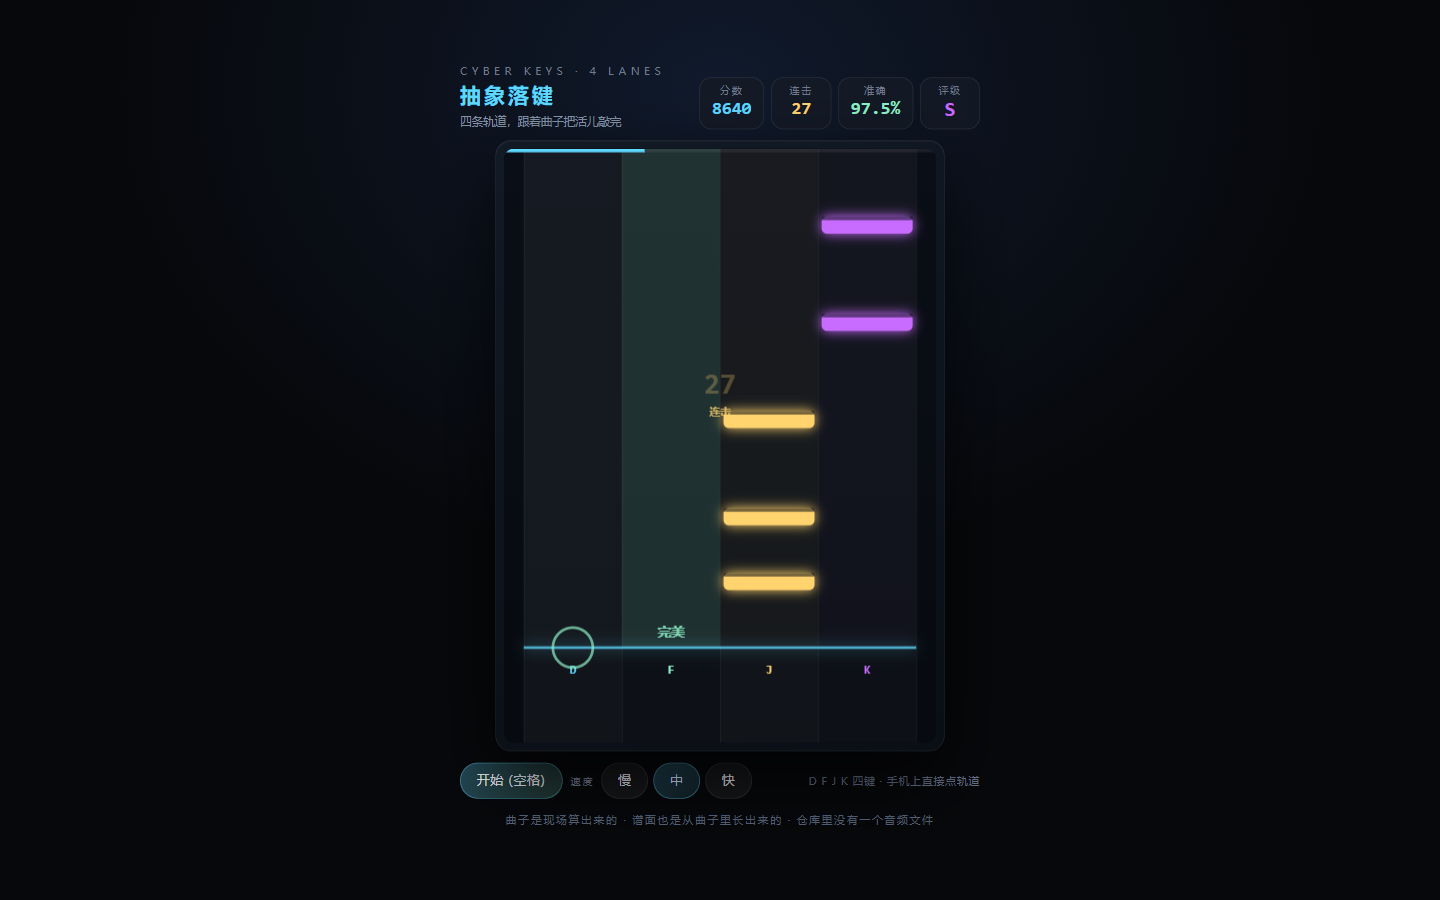
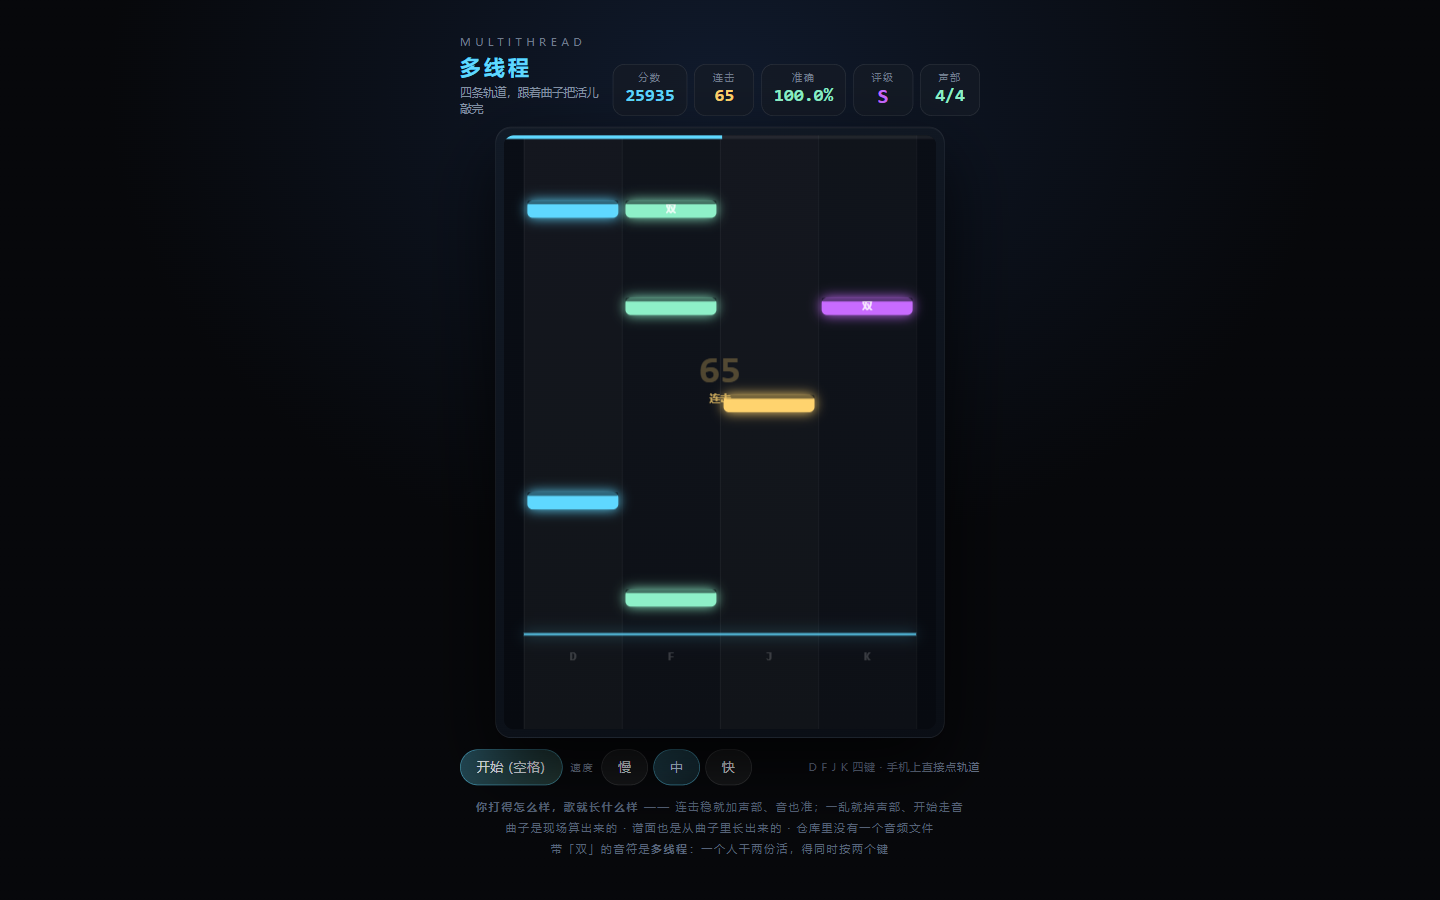
feat(vol.8): 第一件「抽象落键」改成「多线程」（VOL.8 重做做到一半）
VOL.8 按 VOL.6/7 的同一套标准重做，这一批先出第一件。剩下三件（太鼓/点音/节奏跑）
还是旧版，货架名和 README 都标了「重做中」，不留含糊。

两条新规则：

1. 手感和音乐联动（这一卷的招牌）。既然曲子是运行时用 Web Audio 当场算出来的，
   那它就能跟着你变。曲子分四个声部（鼓 / 贝斯 / 和声 / 主旋律），开场只给三个；
   每打出一个完美往上顶 +0.07，漏一拍往下掉 -0.11 —— **主旋律得靠自己的手打进去**。
   手一乱不光掉声部（4→3→2→1，鼓和贝斯永远留着），两个锯齿波还会按手感散开走音。
   这是「谱子写死」的音游做不到的事，正好只有这套引擎能做。
   HUD 加了一格「声部 n/4」，实时告诉你现在开着几个声部。

2. 「多线程」：谱面里同一刻掉下来两颗音符，得同时按两个键（只按一个，另一颗判错过）。
   曲子过半之后开始出现，越往后越多，每首约 21 处。渲染时带一个「双」标记。

其余不变：四轨 D/F/J/K、完美±45ms / 良好±90ms / 凑合±140ms、连击加成、S/A/B/C/D 评级。

顺手改掉：曲名标题 MULTITHREADED KEYS 太长会在踢脚线上折成两行，改短成 MULTITHREAD。

验证（python -m http.server + Playwright）：
- 生成：三档难度的谱面各 21 处成对音符，**同一刻的两颗从未落在同一条轨道上**（dupLane=0）
- 判定：同时按两个键 -> 两颗都判「良好」；只按一个 -> 另一颗判「错过」（直接读 note.result）
- 手感：perf 0.1/0.3/0.6/0.9 分别映射到 1/2/3/4 声部，门控正确（kick 永远在；pad 要 ≥3 声部；
  lead 只有满编才进）；连续 6 次完美把 perf 从 0.5 抬到 0.86，10 次漏拍压到 0 并掉到 1 声部
- 端到端：自动打完一整首（146 个音符全完美），用时正确、声部一路涨到 4、正常结算
- 全站 41 页 × 两种尺寸 = 82 个组合：零 JS 报错（唯一一条 console error 是本地服务器的
  favicon 404）、零横向溢出
- 窄屏：5 个数字块会把标题挤成竖排，加了媒体查询让标题自己占一行

diff --git a/cyber-keys/index.html b/cyber-keys/index.html
@@ -3,7 +3,7 @@
 <head>
 <meta charset="utf-8">
 <meta name="viewport" content="width=device-width, initial-scale=1, maximum-scale=1, user-scalable=no">
-<title>抽象落键 · CYBER KEYS</title>
+<title>多线程 · MULTITHREADED KEYS</title>
 <style>
   *{box-sizing:border-box}
   html,body{min-height:100%;margin:0;background:#07080b}
@@ -28,6 +28,13 @@
   .stat.cb .v{color:#ffd36e}
   .stat.acc .v{color:#8ef0c8}
   .stat.gr .v{color:#c86bff;font-size:20px}
+  .stat.vx .v{color:#8ef0c8}
+  /* 五个数字块在窄屏会把标题挤成竖排，让标题自己占一行 */
+  @media (max-width:560px){
+    header{flex-wrap:wrap;gap:9px}
+    .brand{flex:1 1 100%}
+    .stats{flex:1 1 100%;justify-content:space-between}
+  }
 
   .wrap{position:relative;border-radius:16px;padding:8px;
     background:linear-gradient(160deg,#121a26,#0a0e15);
@@ -75,8 +82,8 @@
 
 <header>
   <div class="brand">
-    <div class="t">CYBER KEYS · 4 LANES</div>
-    <h1>抽象落键</h1>
+    <div class="t">MULTITHREAD</div>
+    <h1>多线程</h1>
     <div class="s">四条轨道，跟着曲子把活儿敲完</div>
   </div>
   <div class="stats">
@@ -84,6 +91,7 @@
     <div class="stat cb"><div class="k">连击</div><div class="v" id="combo">0</div></div>
     <div class="stat acc"><div class="k">准确</div><div class="v" id="acc">100%</div></div>
     <div class="stat gr"><div class="k">评级</div><div class="v" id="grade">—</div></div>
+    <div class="stat vx"><div class="k">声部</div><div class="v" id="voices">4</div></div>
   </div>
 </header>
 
@@ -99,7 +107,9 @@
   <span class="hint">D F J K 四键 · 手机上直接点轨道</span>
 </div>
 
-<footer>曲子是现场算出来的 · 谱面也是从曲子里长出来的 · 仓库里没有一个音频文件</footer>
+<footer><b>你打得怎么样，歌就长什么样</b> —— 连击稳就加声部、音也准；一乱就掉声部、开始走音<br>
+曲子是现场算出来的 · 谱面也是从曲子里长出来的 · 仓库里没有一个音频文件<br>
+带「双」的音符是<b>多线程</b>：一个人干两份活，得同时按两个键</footer>
 
 <div class="over show" id="over">
   <div class="box">
@@ -203,14 +213,28 @@ const M = {
   start(song, lead){ this.init(); this.resume(); this.song = song; this.i = 0; this.on = true;
     this.t0 = this.ctx.currentTime + (lead == null ? 3.2 : lead); },
   stop(){ this.on = false; },
+  /* 你打得怎么样，歌就长什么样：手顺就加声部、音也准；手一乱就掉声部、开始走音。
+     这是「音乐是现场算出来的」才做得到的事 —— 谱子固定的游戏没法这么干。 */
+  perf: 0.58,       // 0 一塌糊涂 ～ 1 炉火纯青（按最近的判定平滑变化）
+  voices: 3,        // 现在开着几个声部：开场三个，主旋律得靠自己打进去
+  hype(d){ this.perf = Math.max(0, Math.min(1, this.perf + d)); },
+  retune(){ this.voices = this.perf < 0.20 ? 1 : this.perf < 0.40 ? 2 : this.perf < 0.68 ? 3 : 4; },
+  allow(kind){
+    const v = this.voices;
+    if(v <= 1) return kind === 'kick' || kind === 'bass';
+    if(v <= 2) return kind !== 'pad' && kind !== 'lead';
+    if(v <= 3) return kind !== 'lead';
+    return true;
+  },
   tick(){
     if(!this.on || !this.ctx || !this.song) return;
+    this.retune();
     const ahead = this.ctx.currentTime + 0.18;
     while(this.i < this.song.events.length){
       const ev = this.song.events[this.i];
       const at = this.t0 + ev.t;
       if(at > ahead) break;
-      if(at > this.ctx.currentTime - 0.06) this.play(ev, at);
+      if(at > this.ctx.currentTime - 0.06 && this.allow(ev.kind)) this.play(ev, at);
       this.i++;
     }
   },
@@ -256,7 +280,7 @@ const M = {
     } else if(K === 'lead'){
       const o=c.createOscillator(), o2=c.createOscillator(), lp=c.createBiquadFilter(), g=c.createGain();
       o.type='square'; o2.type='triangle';
-      o.frequency.value = midiHz(ev.midi); o2.frequency.value = midiHz(ev.midi)*1.005;
+      o.frequency.value = midiHz(ev.midi); o2.frequency.value = midiHz(ev.midi)*(1.004 + (1-this.perf)*0.011);
       lp.type='lowpass'; lp.frequency.setValueAtTime(4200, at);
       lp.frequency.exponentialRampToValueAtTime(1400, at+0.24);
       g.gain.setValueAtTime(0.0001, at);
@@ -268,7 +292,8 @@ const M = {
       const d = ev.dur || 1.6;
       for(const det of [-6, 6]){
         const o=c.createOscillator(), lp=c.createBiquadFilter(), g=c.createGain();
-        o.type='sawtooth'; o.frequency.value = midiHz(ev.midi)*Math.pow(2, det/1200);
+        const off = det * (1 + (1-this.perf)*2.2);      // 手一乱，两个锯齿就散开走音
+        o.type='sawtooth'; o.frequency.value = midiHz(ev.midi)*Math.pow(2, off/1200);
         lp.type='lowpass'; lp.frequency.value=1000;
         g.gain.setValueAtTime(0.0001, at);
         g.gain.linearRampToValueAtTime(0.028, at+0.5);
@@ -317,6 +342,13 @@ function buildChart(song, diffKey){
     const prev = out[out.length-1];
     if(prev && prev.lane === lane && ev.t - prev.t < 0.09) lane = (lane + 1 + ((rnd()*2)|0)) % LANES;
     out.push({ t: ev.t, lane, kind: ev.kind, judged:false, result:null });
+    /* 多线程：一个人同时干两份活。曲子过半之后，同一刻会偶尔掉下来两颗，
+       你得同时按两个键。越往后越多。 */
+    const prog = s / Math.max(1, last);
+    if(prog > 0.30 && ev.kind !== 'hat' && rnd() < 0.09 + prog*0.16){
+      const partner = (lane + 1 + ((rnd()*2)|0)) % LANES;
+      out.push({ t: ev.t, lane: partner, kind: ev.kind, multi:true, judged:false, result:null });
+    }
   }
   return out;
 }
@@ -368,6 +400,7 @@ function reset(){
   score = 0; combo = 0; maxCombo = 0; hits = 0;
   judgeCount = {perfect:0,good:0,ok:0,miss:0};
   fx = []; laneFlash = [0,0,0,0]; countBeep = -9;
+  M.perf = 0.58; M.retune();         // 开场三个声部，主旋律得靠自己打进去
   const s = currentSong();
   totalNotes = chart.length;
   M.stop();
@@ -387,6 +420,9 @@ function updateHUD(){
   const acc = (judgeCount.perfect*300 + judgeCount.good*200 + judgeCount.ok*100) / (denom*300);
   $('acc').textContent = totalNotes ? (acc*100).toFixed(1)+'%' : '100%';
   $('grade').textContent = totalNotes ? gradeOf(acc) : '—';
+  const v = M.voices || 4;
+  $('voices').textContent = v + '/4';
+  $('voices').style.color = v >= 4 ? '#8ef0c8' : v === 3 ? '#8fd9ff' : v === 2 ? '#ffd36e' : '#ff7a6b';
 }
 function gradeOf(acc){
   if(acc >= 0.96) return 'S';
@@ -401,12 +437,15 @@ function judgeNote(n, tier){
   n.judged = true; n.result = tier;
   const s = TIER[tier], D = DIFFS[diffKey];
   judgeCount[tier]++;
-  if(tier === 'miss'){ combo = 0; }
+  if(tier === 'miss'){ combo = 0; M.hype(-0.11); }
   else {
     hits++; combo++; if(combo > maxCombo) maxCombo = combo;
     const comboBonus = 1 + Math.min(1, combo/100);
     score += Math.round(s.s * D.mult * comboBonus);
+    // 手顺，歌就越弹越满；漏一拍要三次完美才补得回来
+    M.hype(tier === 'perfect' ? 0.07 : tier === 'good' ? 0.03 : 0.01);
   }
+  M.retune();
   updateHUD();
 }
 function tryHit(lane){
@@ -541,6 +580,13 @@ function draw(st){
     ctx.restore();
     ctx.fillStyle = 'rgba(8,12,18,.55)';
     rr(x+4, y-geo.noteH/2, w-8, 4, 3); ctx.fill();
+    // 多线程的那些音符带个「双」：这一下得同时按两个键
+    if(n.multi){
+      ctx.fillStyle = 'rgba(255,255,255,.85)';
+      ctx.font = '800 11px "PingFang SC","Microsoft YaHei",sans-serif';
+      ctx.textAlign = 'center'; ctx.textBaseline = 'middle';
+      ctx.fillText('双', x + w/2, y + 0.5);
+    }
   }
 
   // 判定键位提示
@@ -700,7 +746,27 @@ function paintBest(){
 /* 供自动化测试 / 演示用 */
 window.__keys = {
   get chart(){ return chart; }, get song(){ return song; }, get state(){ return { playing, paused, finished, score, combo, maxCombo, judgeCount, totalNotes }; },
-  setAuto(v){ autoPlay = !!v; }, hit: tryHit, play, finish
+  setAuto(v){ autoPlay = !!v; }, hit: tryHit, play, finish,
+  /* 音乐跟手感联动的那部分，方便自动化验 */
+  M,
+  get perf(){ return M.perf; },
+  get voices(){ return M.voices; },
+  get voicesShown(){ return $('voices').textContent; },
+  setPerf(v){ M.perf = v; M.retune(); updateHUD(); },
+  judgeForTest(tier){ judgeNote({ lane:0, judged:false }, tier); },
+  allowForTest(kind){ return M.allow(kind); },
+  chordStats(){
+    const byT = new Map();
+    for(const n of chart) byT.set(n.t, (byT.get(n.t)||0)+1);
+    let multi = 0, dupLane = 0;
+    for(const n of chart) if(n.multi) multi++;
+    for(const [t, k] of byT){
+      if(k < 2) continue;
+      const lanes = chart.filter(n => n.t === t).map(n => n.lane);
+      if(new Set(lanes).size !== lanes.length) dupLane++;
+    }
+    return { multi, chordSlots: [...byT.values()].filter(k=>k>1).length, dupLane };
+  }
 };
 </script>
 </body>

diff --git a/index.html b/index.html
@@ -779,15 +779,17 @@
     </a>
   </div>
 
-  <div class="shelf"><span class="label"><b>VOL.8</b> · 音游四件</span><span class="rule"></span></div>
+  <div class="shelf"><span class="label"><b>VOL.8</b> · 音游四件（重做中）</span><span class="rule"></span></div>
   <div class="grid">
     <a class="card" href="cyber-keys/">
       <span class="go">进入 →</span>
       <div class="thumb"><div class="tmp-keys"><i></i><i></i><i></i><i></i></div></div>
-      <h2>抽象落键</h2>
-      <p>四条轨道，音符从上往下掉，落到判定线上敲掉它。判定分<b>完美 / 良好 / 凑合 / 错过</b>，
-         有连击、准确率和 S/A/B/C/D 评级。四首曲子 × 三档难度，下落速度还能自己调。</p>
-      <div class="tags"><span class="tag">可玩</span><span class="tag">四轨</span><span class="tag">四首曲子</span></div>
+      <h2>多线程</h2>
+      <p>四条轨道，音符从上往下掉，落到判定线上敲掉它。<b>而曲子是现场算出来的</b>——
+         所以你打得怎么样，歌就长什么样：连击稳就加声部、音也准，一乱就掉声部、开始走音，
+         主旋律得靠自己的手打进去。另外谱面里带「双」的音符是「一人干两份活」，
+         得同时按两个键。</p>
+      <div class="tags"><span class="tag">可玩</span><span class="tag">手感决定配器</span><span class="tag">同时对两键</span></div>
     </a>
     <a class="card" href="cyber-taiko/">
       <span class="go">进入 →</span>

diff --git a/README.md b/README.md
@@ -382,7 +382,10 @@
 
 ---
 
-# VOL.8 · 音游四件
+# VOL.8 · 音游四件（重做中）
+
+> 这一卷正在按 VOL.6/7 的同一套标准重做，目前改完的是第一件「多线程」，
+> 后面三件还是旧版。
 
 **这一卷的四件共用同一套做法，而且它才是重点：**
 
@@ -392,18 +395,24 @@
   再按十六分音符网格采样：难度只决定「每隔几格取一个」。所以加歌、加难度都不用写谱。
 - **计时走 `AudioContext.currentTime`（采样级）**，配合前瞻调度器提前排音，
   而不是 `performance.now()`——这是音游判定准不准的分水岭。
+- **手感和音乐联动**（这一轮新加的）：既然曲子是当场算出来的，那它就能跟着你变。
 
-四首曲子各配一套：**周一早八 / 需求又变了 / 摸鱼进行曲 / 下班倒计时**（太鼓那件是
-早操进行曲 / 赶地铁 / 午休半小时 / 领导来了）。
+### ⌨ 多线程 · [`cyber-keys/`](cyber-keys/)
 
-### ⌨ 抽象落键 · [`cyber-keys/`](cyber-keys/)
-
-![抽象落键](shots/keys.png)
+![多线程](shots/keys.png)
 
 四轨下落式，D / F / J / K 四键。判定分**完美（±45ms）/ 良好（±90ms）/ 凑合（±140ms）/ 错过**，
 带连击加成、准确率和 S/A/B/C/D 评级。三档难度、三档下落速度，手机上直接点轨道。
 
-`可玩` · `四轨` · `四首曲子`
+**这一件多了一条规则：你打得怎么样，歌就长什么样。** 曲子分四个声部（鼓 / 贝斯 / 和声 / 主旋律），
+开场只给你三个；每打出一个完美就往上顶一点，漏一拍往下掉一截——
+**主旋律得靠自己的手打进去**。手一乱，不光掉声部，两个锯齿波还会散开走音。
+只有「音乐是当场算出来的」才做得到这件事。
+
+谱面里带「**双**」的音符是**多线程**：一个人同时干两份活，两颗音符同一刻落下，
+得同时按两个键（只按一个，另一颗就判错过）。曲子过半之后开始出现，越往后越多。
+
+`可玩` · `你的手感决定配器` · `同时对两键`
 
 ### 🥁 抽象太鼓 · [`cyber-taiko/`](cyber-taiko/)
 
